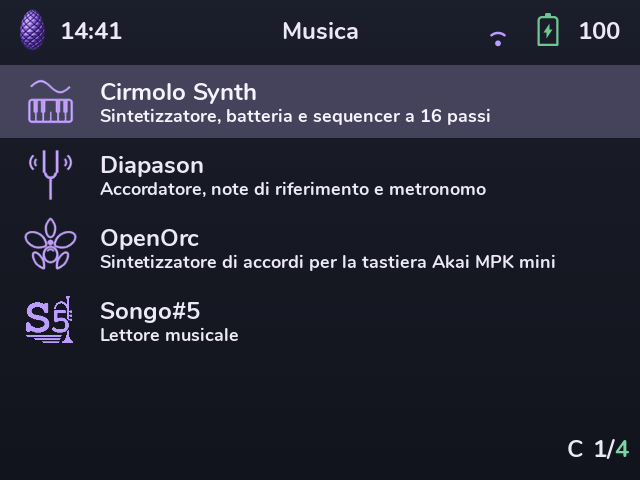
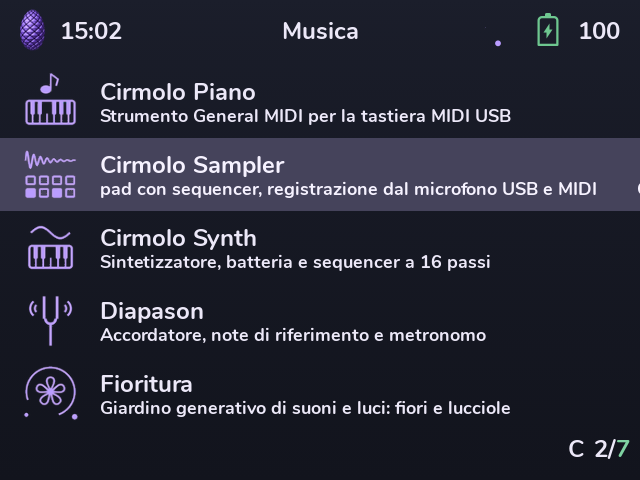
Docs: the Home with Music first, in screenshots, README and manuals
The README screenshots of the Home and of the Music area, and the
Cirmolo theme preview (a copy of the Home screenshot), are retaken on
the Flip: Music first and selected, then the Music list with Fioritura.
README (en/it): Music is also the first icon on the Home. Fioritura's
manual says where to find it.

Claude-Session: https://claude.ai/code/session_01PAmGYqe5baDNteuswP3moD

diff --git a/README.it.md b/README.it.md
@@ -30,7 +30,7 @@ Il nome viene dal cirmolo, il pino cembro delle Dolomiti: un legno profumato e r
 - **Versione di Cirmolo** in Impostazioni → Informazioni.
 - **Logo di avvio di Cirmolo** (la pigna viola del cirmolo) e **cambio del logo più sicuro sulla Flip:** prima di riscrivere la memoria interna, l'app «Logo di avvio» controlla la batteria, copia sulla SD tutta la memoria interna con i checksum, verifica la partizione di avvio e, se la scrittura fallisce, rimette da sola la copia.
 - **Tema Cirmolo**, predefinito: i colori del logo (notte, viola della pigna, verde degli aghi) nei menu, nelle icone delle app e delle aree, nelle animazioni di caricamento e di ricarica e nelle schermate di sistema, con la pigna al posto dell'albero di spruce. È ricavato dal tema Spruce di tenlevels ([`.github/branding/tema_cirmolo.py`](.github/branding/tema_cirmolo.py)), che resta tra i temi.
-- **App raggruppate in cartelle** (Musica, Giochi, Sistema, Altro...).
+- **App raggruppate in cartelle** (Musica, Giochi, Sistema, Altro...). Musica è anche la prima icona della Home e apre direttamente le app musicali.
 
 ### App native nuove
 Scritte in C per la Flip, con un kit comune ([`spruce/cirmolo-kit`](spruce/cirmolo-kit)): grafica, tasti, audio e tastiere MIDI USB.

diff --git a/README.md b/README.md
@@ -31,7 +31,7 @@ The name comes from *cirmolo*, the Swiss stone pine of the Dolomites: a fragrant
 - **Cirmolo version** in About this Device.
 - **Cirmolo boot logo** (the violet pine cone) and a **safer logo change on the Flip:** before rewriting the internal flash, the Boot Logo app checks the battery, copies the whole internal flash to the SD card with checksums, verifies the boot partition and restores the copy by itself if the write fails.
 - **Cirmolo theme**, the default: the logo's colours (night, violet cone, green needles) across menus, app and area icons, loading and charging animations and system screens, with the pine cone in place of the spruce tree. It is derived from tenlevels' Spruce theme ([`.github/branding/tema_cirmolo.py`](.github/branding/tema_cirmolo.py)), which is still available.
-- **Apps grouped into folders** (Music, Games, System, Other...).
+- **Apps grouped into folders** (Music, Games, System, Other...). Music is also the first icon on the Home screen and opens the music apps directly.
 
 ### New native apps
 Written in C for the Flip on a shared kit ([`spruce/cirmolo-kit`](spruce/cirmolo-kit)): graphics, buttons, audio and USB MIDI keyboards. Cirmolo Synth, Diapason, OpenOrc and Fioritura are in Italian only for now.

diff --git a/App/Fioritura/MANUAL.md b/App/Fioritura/MANUAL.md
@@ -2,7 +2,7 @@
 
 *[Italiano](MANUAL.it.md)*
 
-Fioritura ("blossoming") is a garden of sound and light for the Miyoo Flip. You do not need to know how to play: you plant a few notes, the garden repeats them, lets them fade slowly and, if you leave it alone, carries on by itself. It is made for headphones, for the evening, or for a soft background while you do something else. The interface is in Italian; the names in brackets below are what you see on screen.
+Fioritura ("blossoming") is a garden of sound and light for the Miyoo Flip. You do not need to know how to play: you plant a few notes, the garden repeats them, lets them fade slowly and, if you leave it alone, carries on by itself. It is made for headphones, for the evening, or for a soft background while you do something else. The interface is in Italian; the names in brackets below are what you see on screen. You find it on the Home screen, under **Music** (*Musica*).
 
 It has two modes, and they play together:
 

diff --git a/App/Fioritura/MANUAL.it.md b/App/Fioritura/MANUAL.it.md
@@ -2,7 +2,7 @@
 
 *[English](MANUAL.md)*
 
-Fioritura è un giardino di suoni e luci per la Miyoo Flip. Non serve saper suonare: pianti qualche nota, il giardino la ripete, la fa sfiorire piano e, se lo lasci stare, continua da solo. È fatto per le cuffie, la sera, o per tenere un sottofondo mentre fai altro.
+Fioritura è un giardino di suoni e luci per la Miyoo Flip. Non serve saper suonare: pianti qualche nota, il giardino la ripete, la fa sfiorire piano e, se lo lasci stare, continua da solo. È fatto per le cuffie, la sera, o per tenere un sottofondo mentre fai altro. Lo trovi nella Home, sotto **Musica**.
 
 Ha due modi, che suonano insieme:
 
